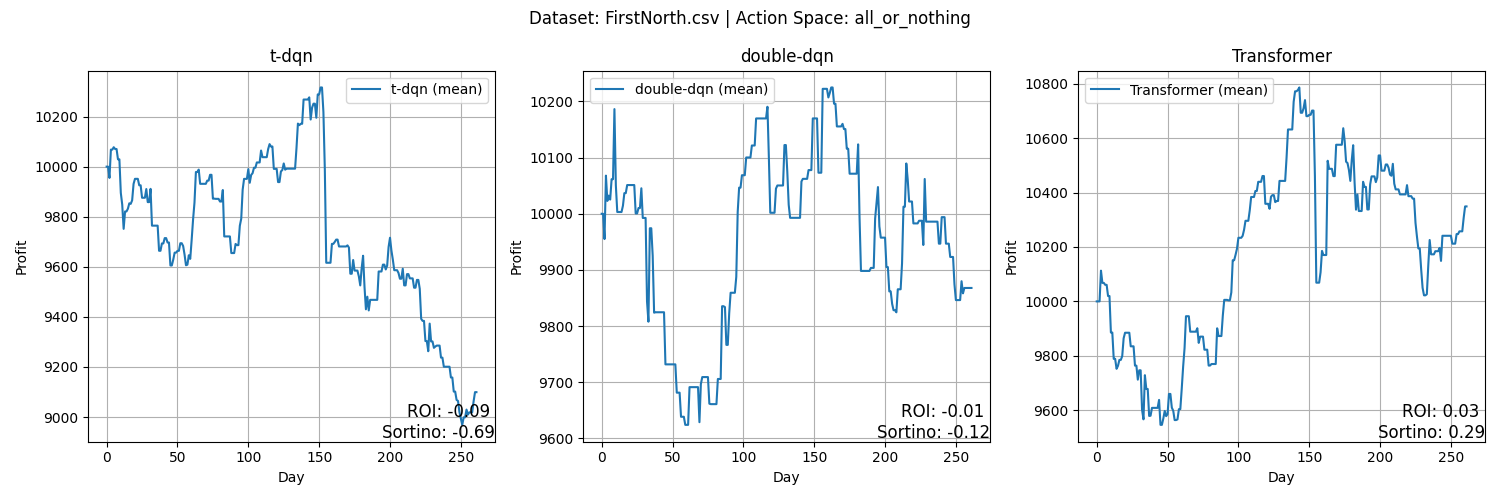
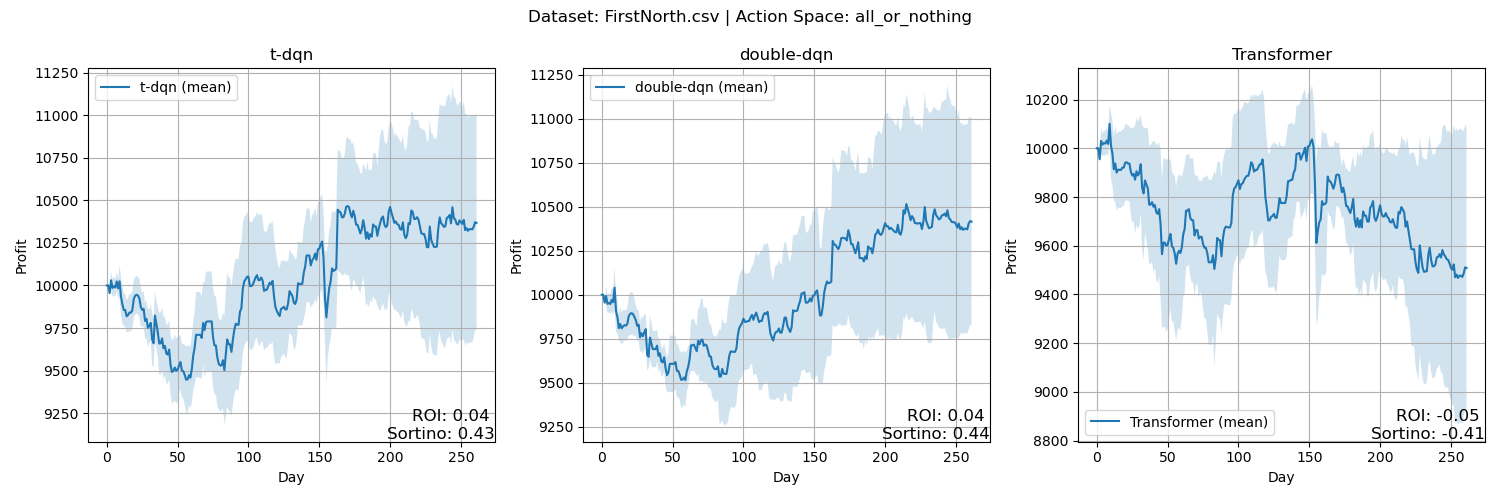
Run of big_run n=3 all plots

Changed region(s): [[0.0, 0.09, 1.0, 0.9], [0.3373, 0.0, 0.644, 0.06]]

diff --git a/trading_bot_new/big_run.py b/trading_bot_new/big_run.py
@@ -7,7 +7,7 @@ DATASETS = ["FirstNorth.csv", "Novotek.csv"]
 ACTION_SPACES = ["all_or_nothing", "10%_steps", "all_10%_steps"]
 METHODS = ["t-dqn", "double-dqn", "Transformer"]
 
-N_RUNS = 1
+N_RUNS = 3
 
 
 def run_multiple_times(dataset, action_space, method, n_runs=N_RUNS):
